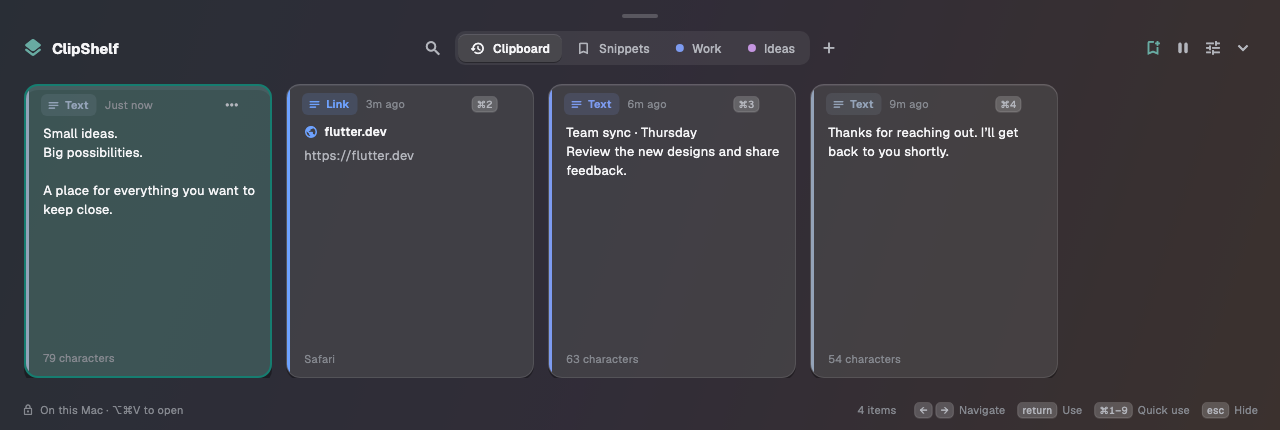
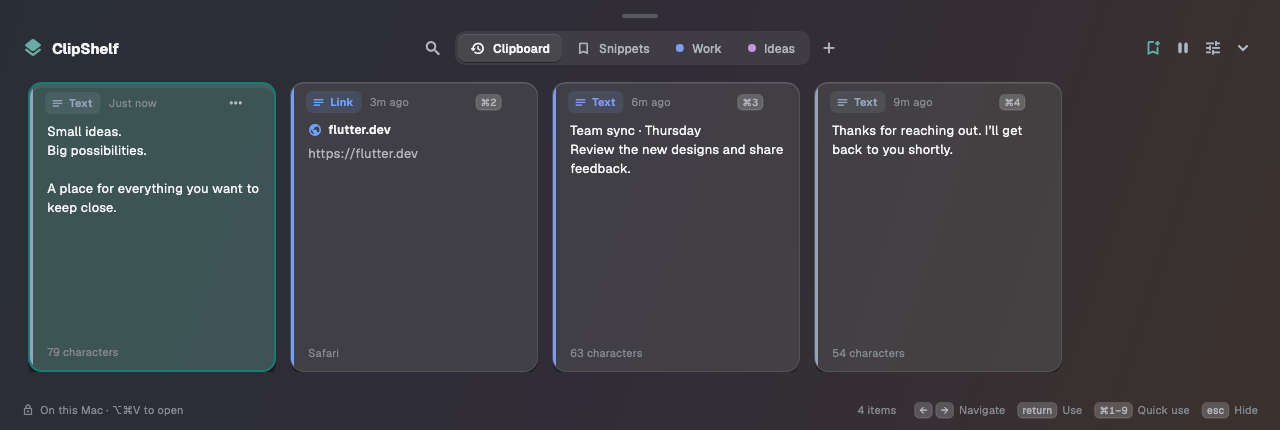
Stop scrolled-out rows painting over the panel header
AnimatedClipList used Clip.none so card shadows weren't cut off, which
let rows scrolled out of view keep painting outside the list: over the
menu-bar panel's search field and History row, and past the shelf's
edges. Clip to the list again and give the shelf list padding for card
shadows instead. Adds a regression test.

Changed region(s): [[0.0, 0.1814, 0.8438, 0.8767]]

diff --git a/lib/features/clipboard/presentation/widgets/clipboard_shelf.dart b/lib/features/clipboard/presentation/widgets/clipboard_shelf.dart
@@ -300,7 +300,7 @@ class ClipboardShelf extends ConsumerWidget {
                   style: TextStyle(fontSize: 11, color: colors.warningText),
                 ),
               ),
-            const SizedBox(height: 16),
+            const SizedBox(height: 10),
             Expanded(
               child: loading
                   ? const Center(child: CircularProgressIndicator())
@@ -313,7 +313,7 @@ class ClipboardShelf extends ConsumerWidget {
                         items: items,
                         controller: listScroll,
                         extent: 248,
-                        padding: const EdgeInsets.fromLTRB(2, 2, 2, 16),
+                        padding: const EdgeInsets.fromLTRB(6, 6, 6, 22),
                         itemBuilder: (context, item, index) => ClipboardCard(
                           item: item,
                           index: index,

diff --git a/lib/features/clipboard/presentation/widgets/animated_clip_list.dart b/lib/features/clipboard/presentation/widgets/animated_clip_list.dart
@@ -164,7 +164,10 @@ class _AnimatedClipListState extends State<AnimatedClipList> {
       controller: widget.controller,
       scrollDirection: widget.axis,
       padding: widget.padding,
-      clipBehavior: Clip.none,
+      // Clip to the list's own area: anything scrolled out of view must not
+      // paint over the search field or the window edges. Callers give the
+      // list enough padding for card shadows instead.
+      clipBehavior: Clip.hardEdge,
       initialItemCount: _items.length,
       itemBuilder: (context, index, animation) => index < _items.length
           ? _wrap(context, _items[index], index, animation)

diff --git a/test/widget_test.dart b/test/widget_test.dart
@@ -408,6 +408,16 @@ void main() {
       expect(find.byTooltip('Clear search'), findsOneWidget);
     },
   );
+  testWidgets('Clip lists never paint scrolled-out rows over the header', (
+    tester,
+  ) async {
+    presentation = 'quick';
+    await load(tester);
+    expect(
+      tester.widget<AnimatedList>(find.byType(AnimatedList)).clipBehavior,
+      Clip.hardEdge,
+    );
+  });
   testWidgets('Menu-bar panel opens the snippet editor in one click', (
     tester,
   ) async {
